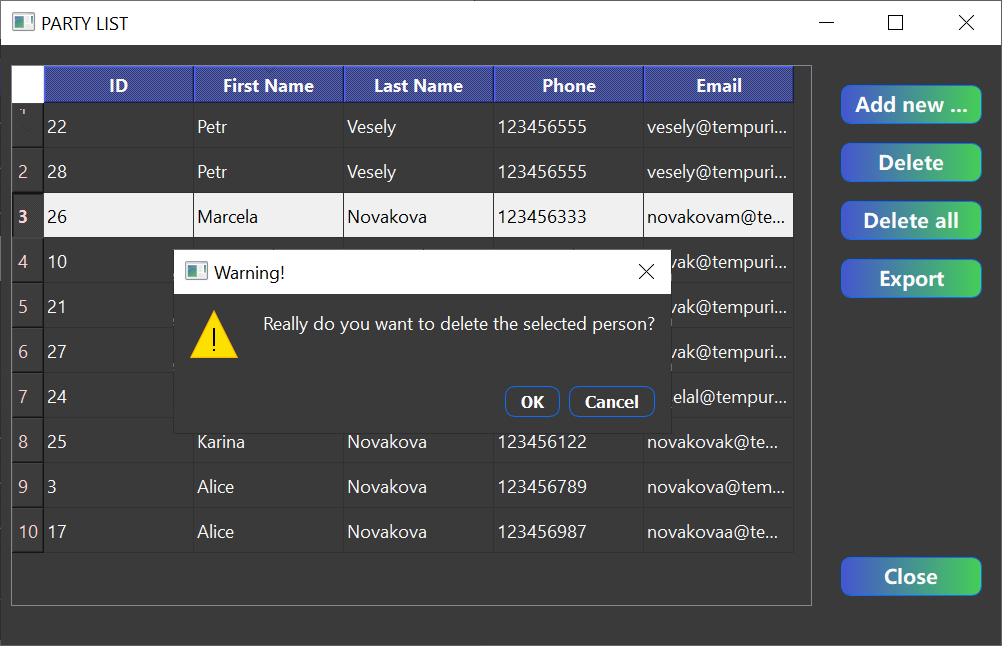
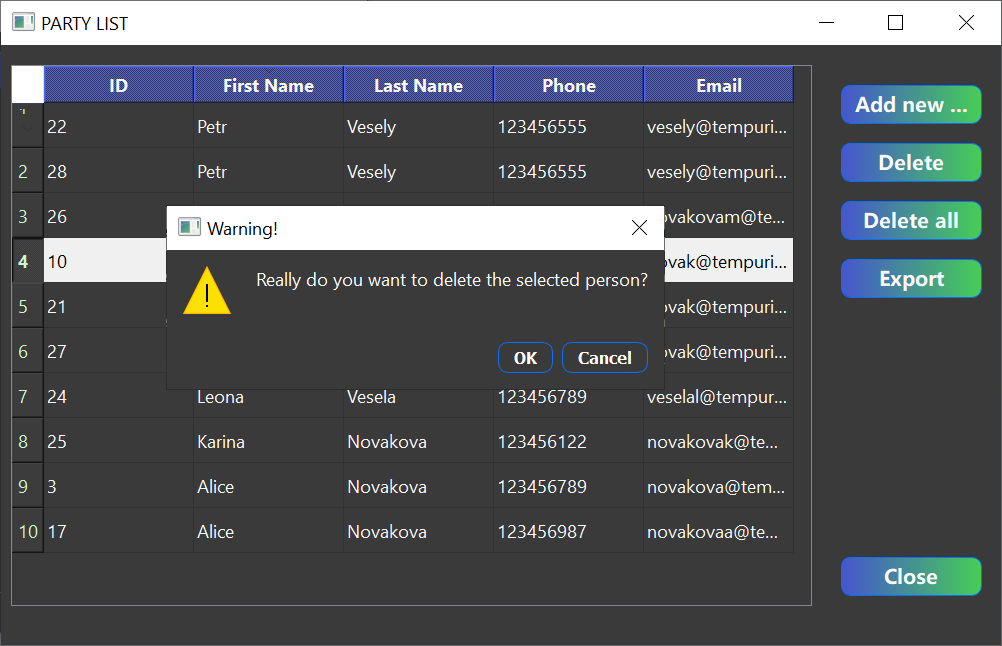
Design changes

Changed region(s): [[0.0, 0.2786, 0.8044, 0.6502], [0.3403, 0.5882, 0.4022, 0.6192], [0.1856, 0.5882, 0.2475, 0.6192]]

diff --git a/PartyListMain.py b/PartyListMain.py
@@ -44,7 +44,7 @@ class PartyWindow(QMainWindow):
         self.table_party_list.setModel(self.personModel.model)
         self.table_party_list.setSelectionBehavior(QAbstractItemView.SelectRows) 
         self.table_party_list.horizontalHeader().setStyleSheet('QHeaderView::section {background-color: rgb(69, 86, 206); color: rgb(250, 250, 250); font-weight: bold;} QToolTip { background-color: #8ad4ff; color: black; border: #8ad4ff solid 1px}')
-        self.table_party_list.verticalHeader().setStyleSheet('QHeaderView::section {background-color: rgb(60, 60, 60); color: rgb(250, 210, 210); font-size: 6} QToolTip { background-color: #8ad4ff; color: black; border: #8ad4ff solid 1px}')
+        self.table_party_list.verticalHeader().setStyleSheet('QHeaderView::section {background-color: rgb(60, 60, 60); color: rgb(200, 250, 200); font-size: 6} QToolTip { background-color: #8ad4ff; color: black; border: #8ad4ff solid 1px}')
 
         self.button_delete.clicked.connect(lambda: self.deletePerson())
         self.button_close.clicked.connect(app.closeAllWindows)
